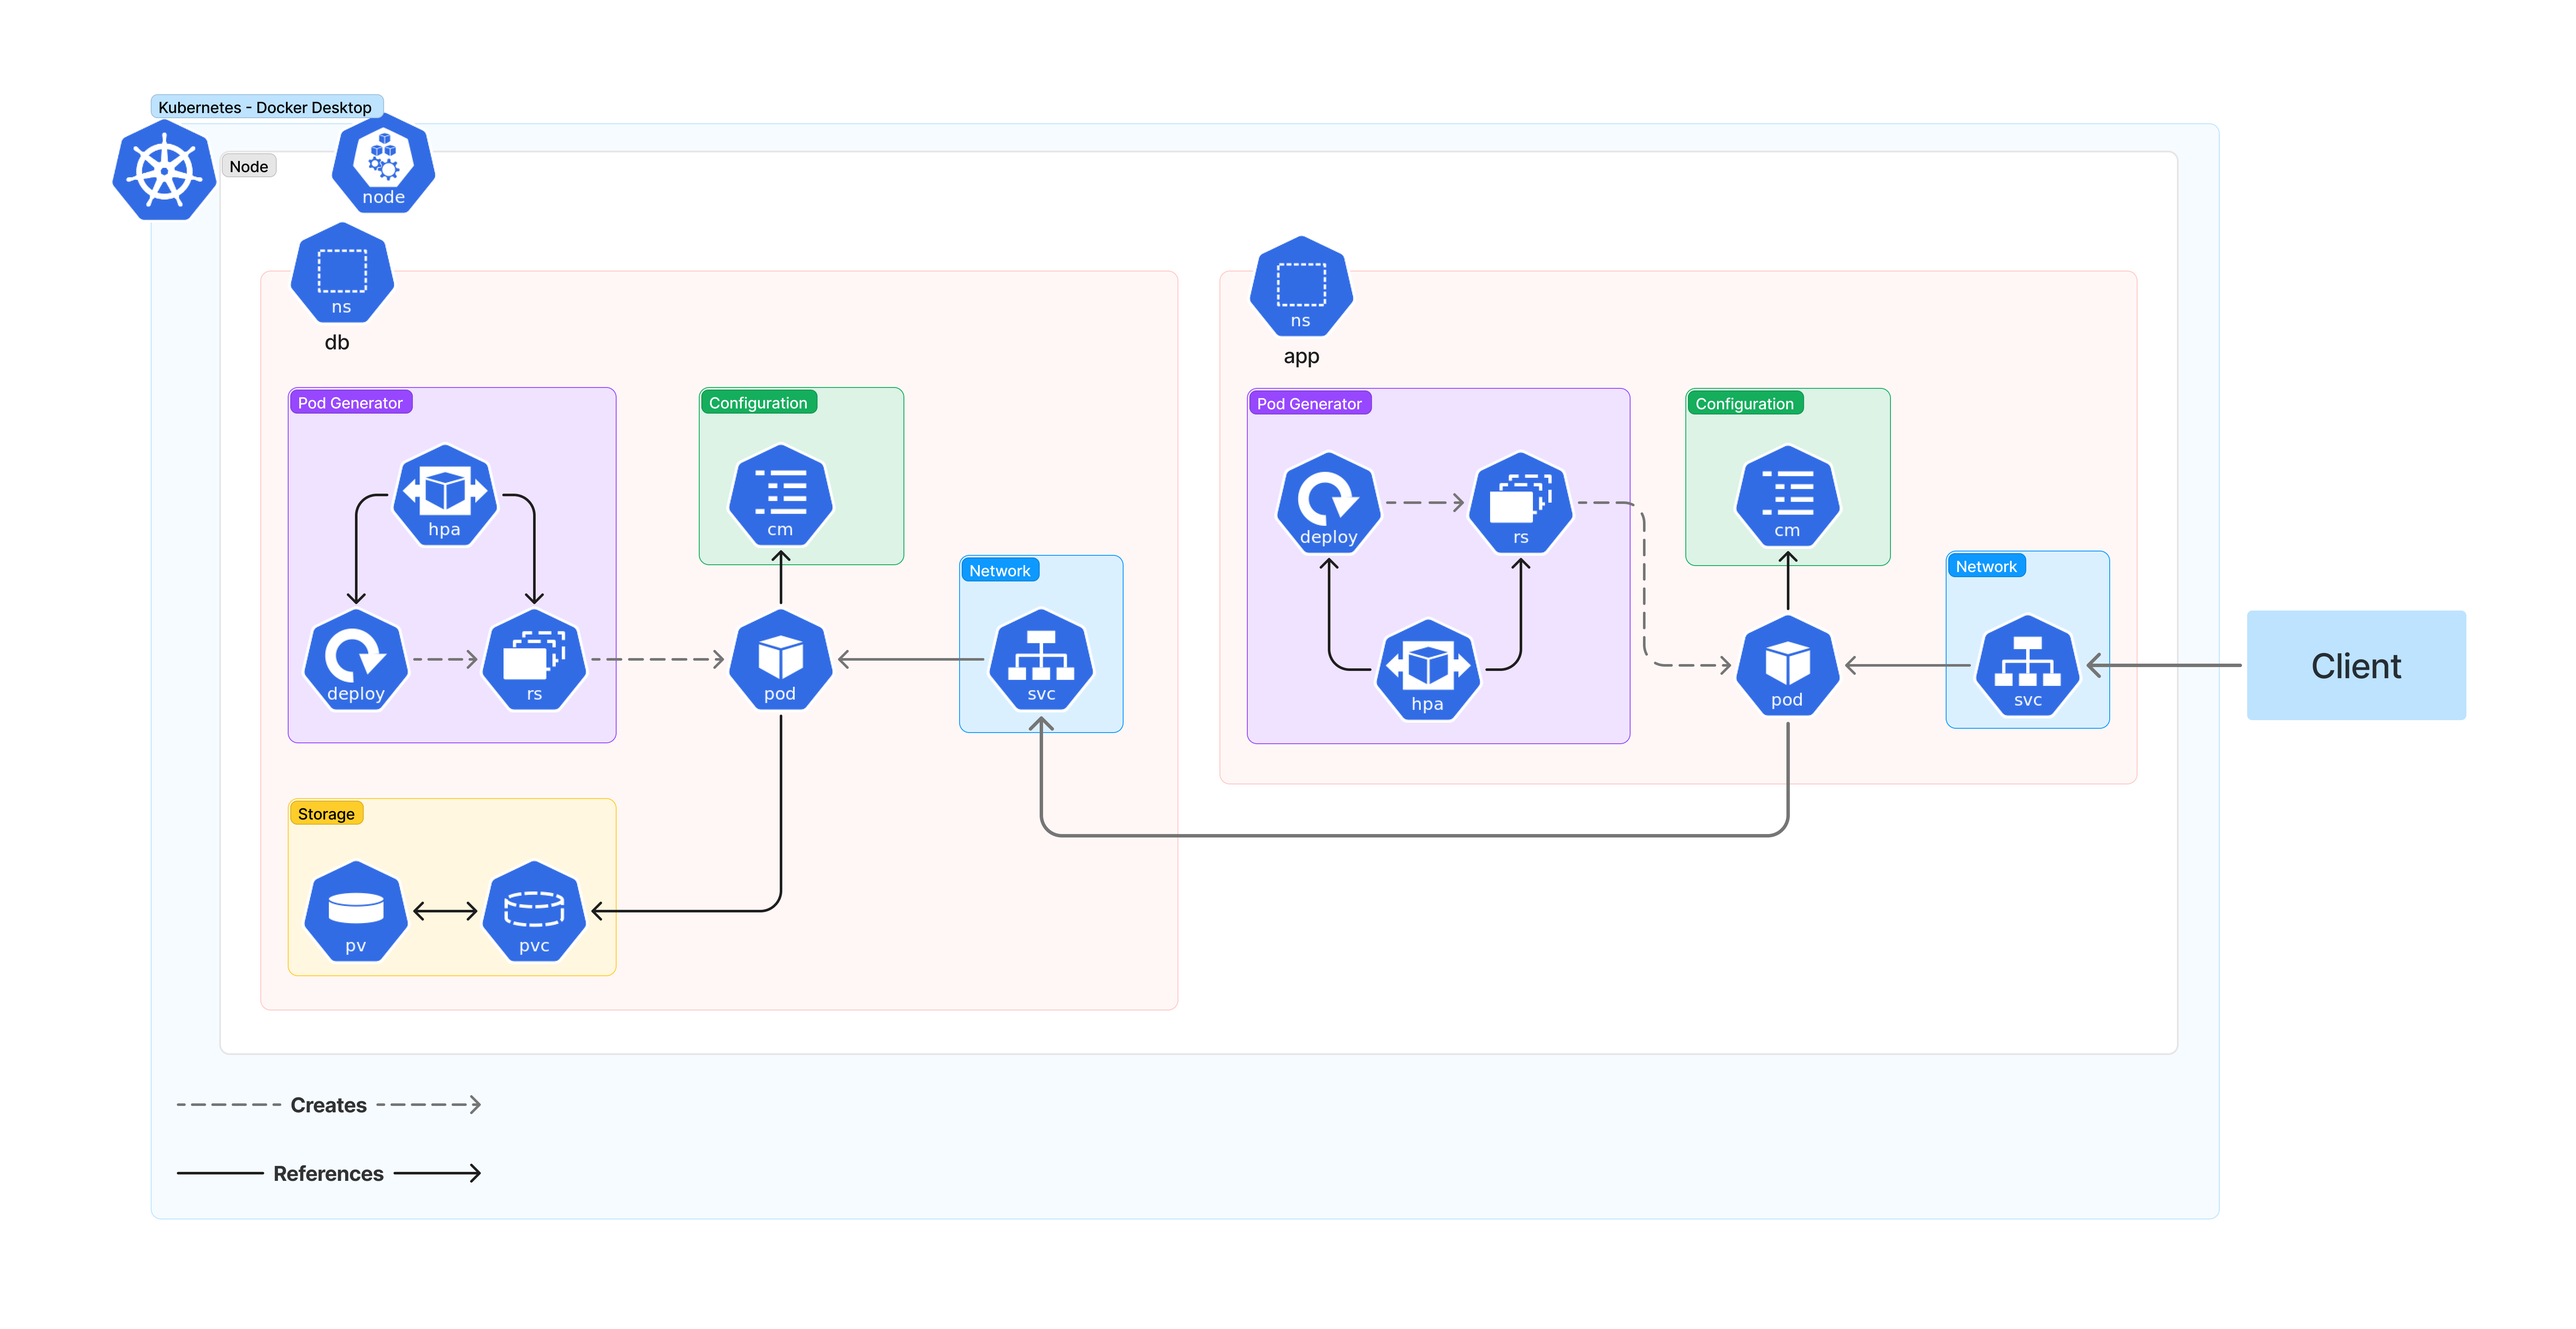
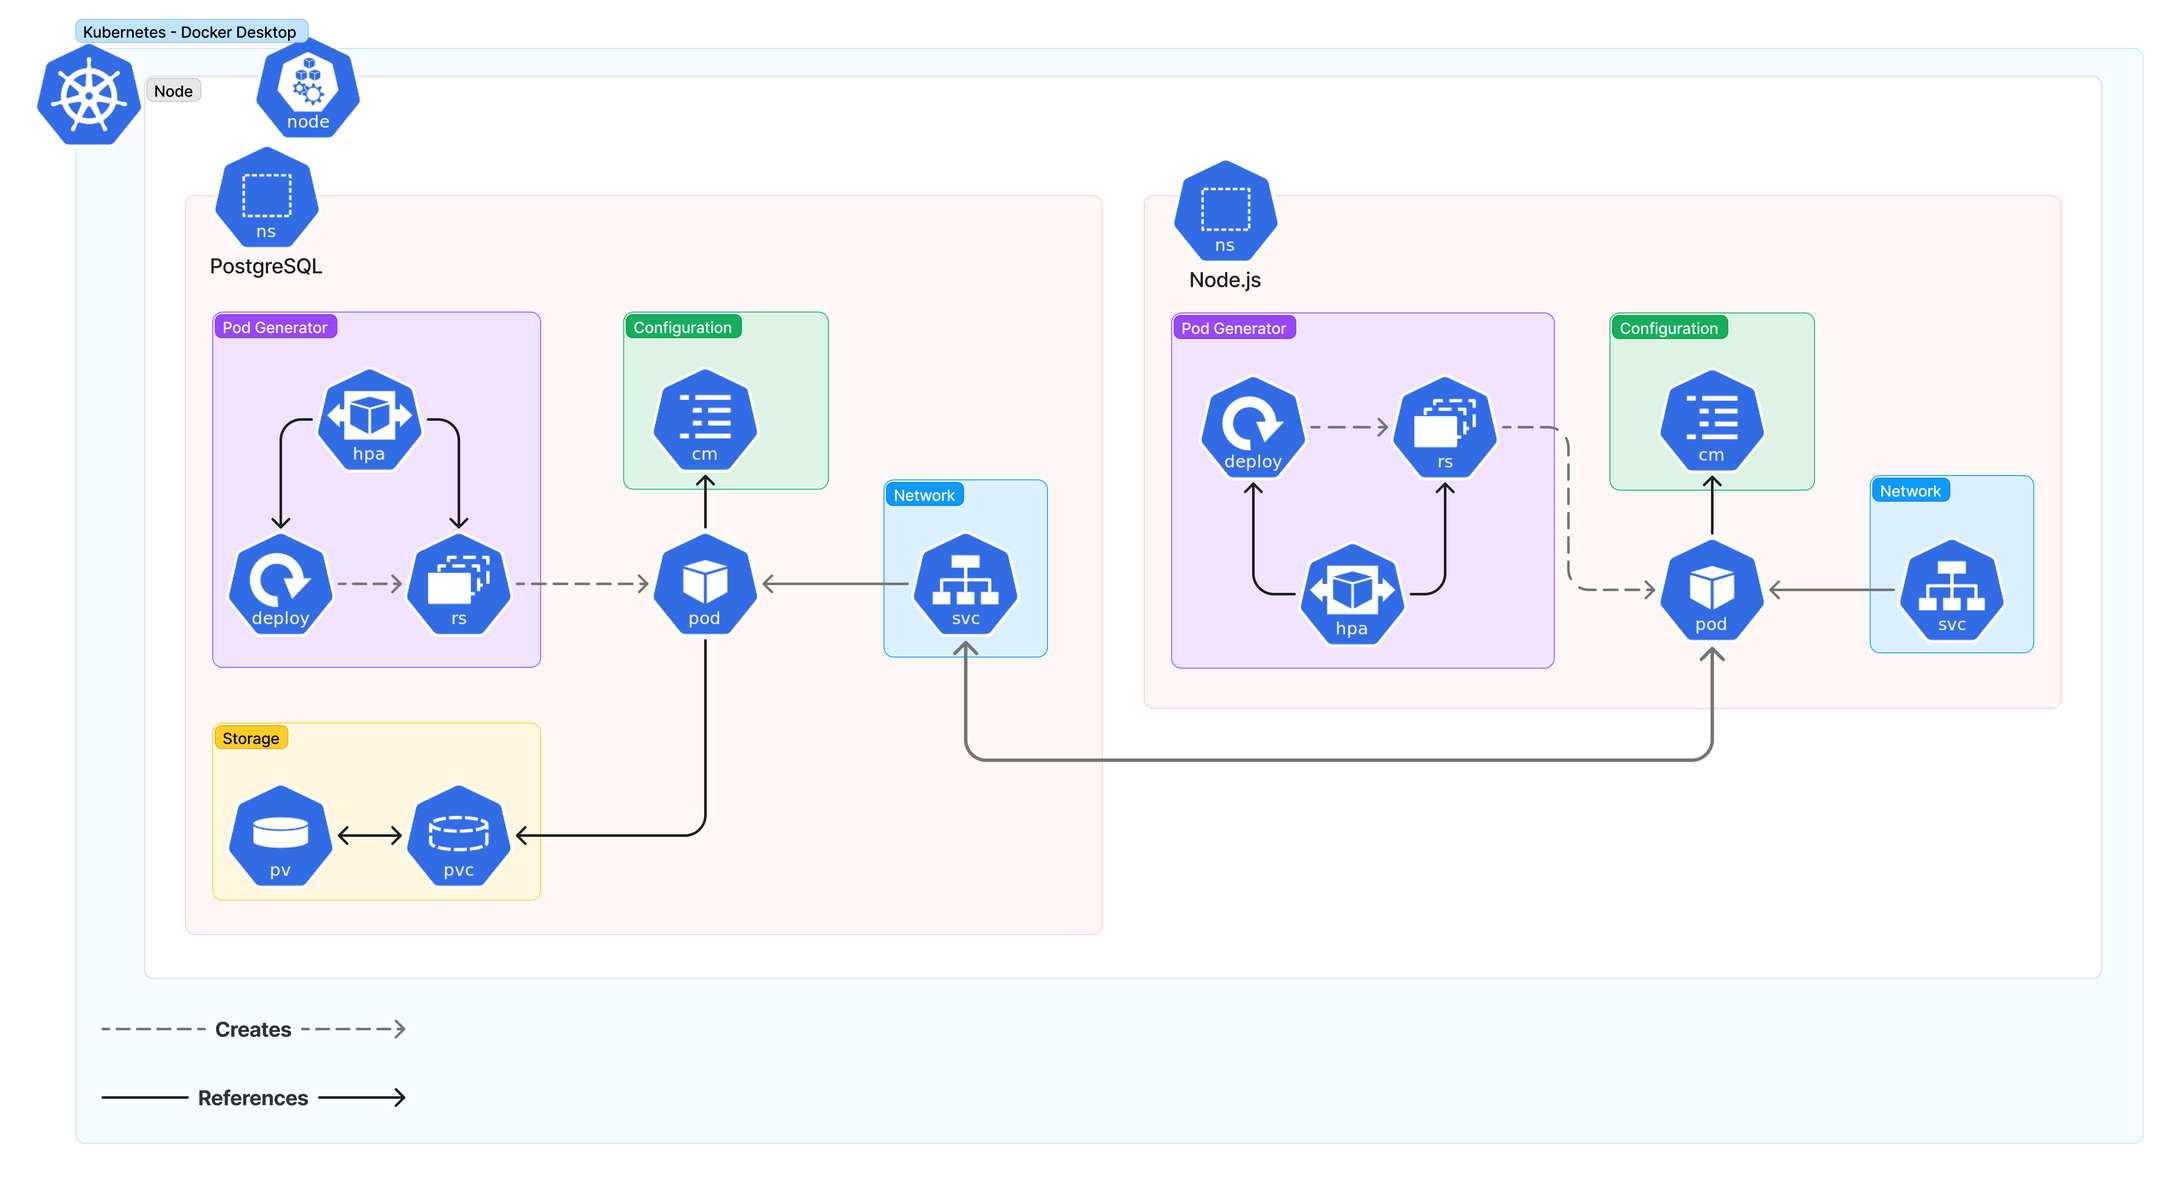
docs: adds system archtecture and updates DB and APP names in infra architecture

diff --git a/README.md b/README.md
@@ -160,7 +160,11 @@ Access the application [http://localhost:3000/documentation](http://localhost:30
 1. Access container
 
    ```
+   <!-- For Docker -->
    docker exec -it postgres_container bash
+
+   <!-- For K8S -->
+   kubectl exec -it <pod_name> bash
    ```
 
 2. Conect database
@@ -195,6 +199,10 @@ yarn test:cucumber
 
 ## Diagrams
 
+### System architecture
+![System arquitecture](./public/Arquitetura.png)
+
+### Kubernetes infrastructure
 ![Kubernetes App and DB diagram](./public/K8S_diagram.png)
 
 ## Contributing
